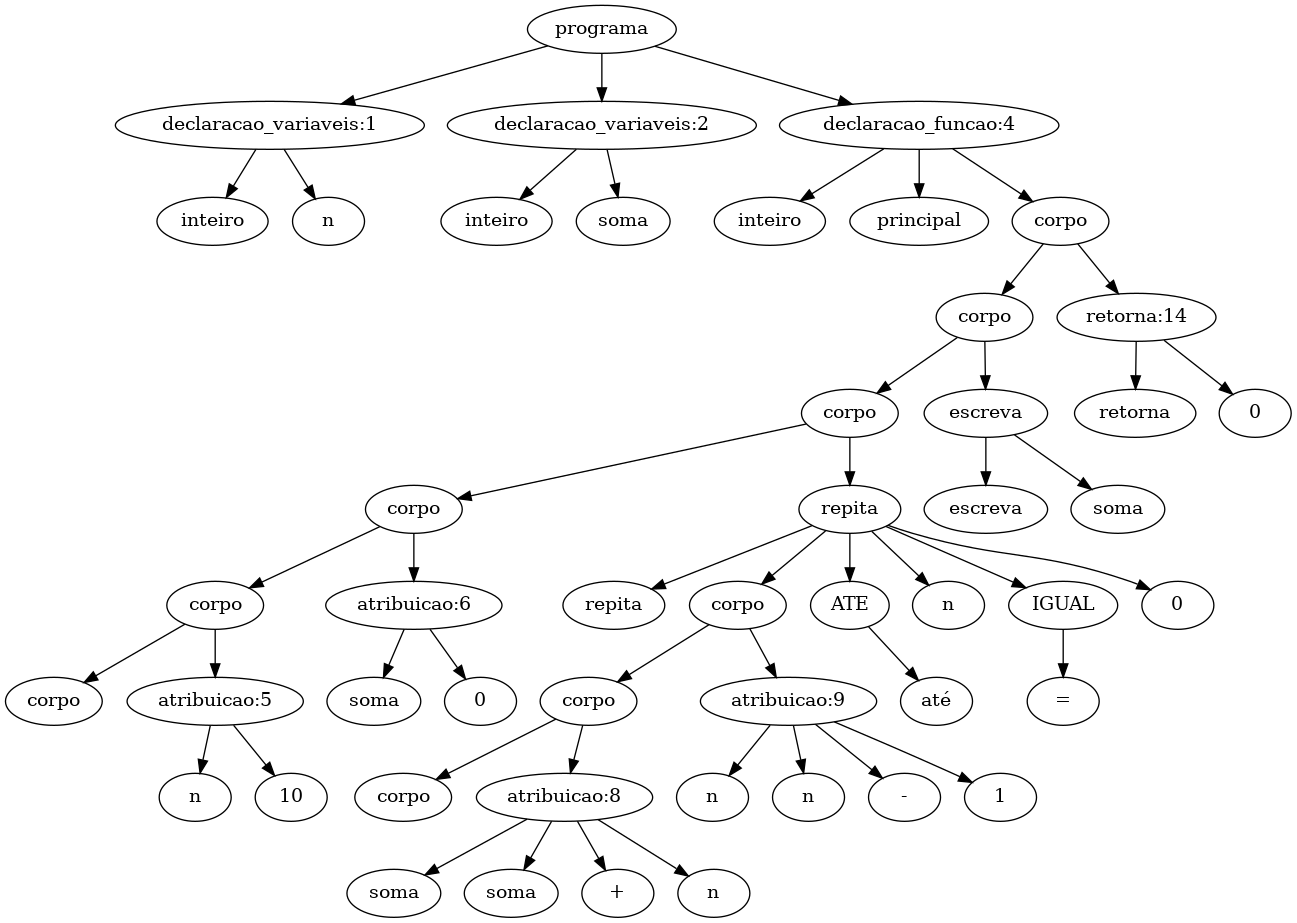
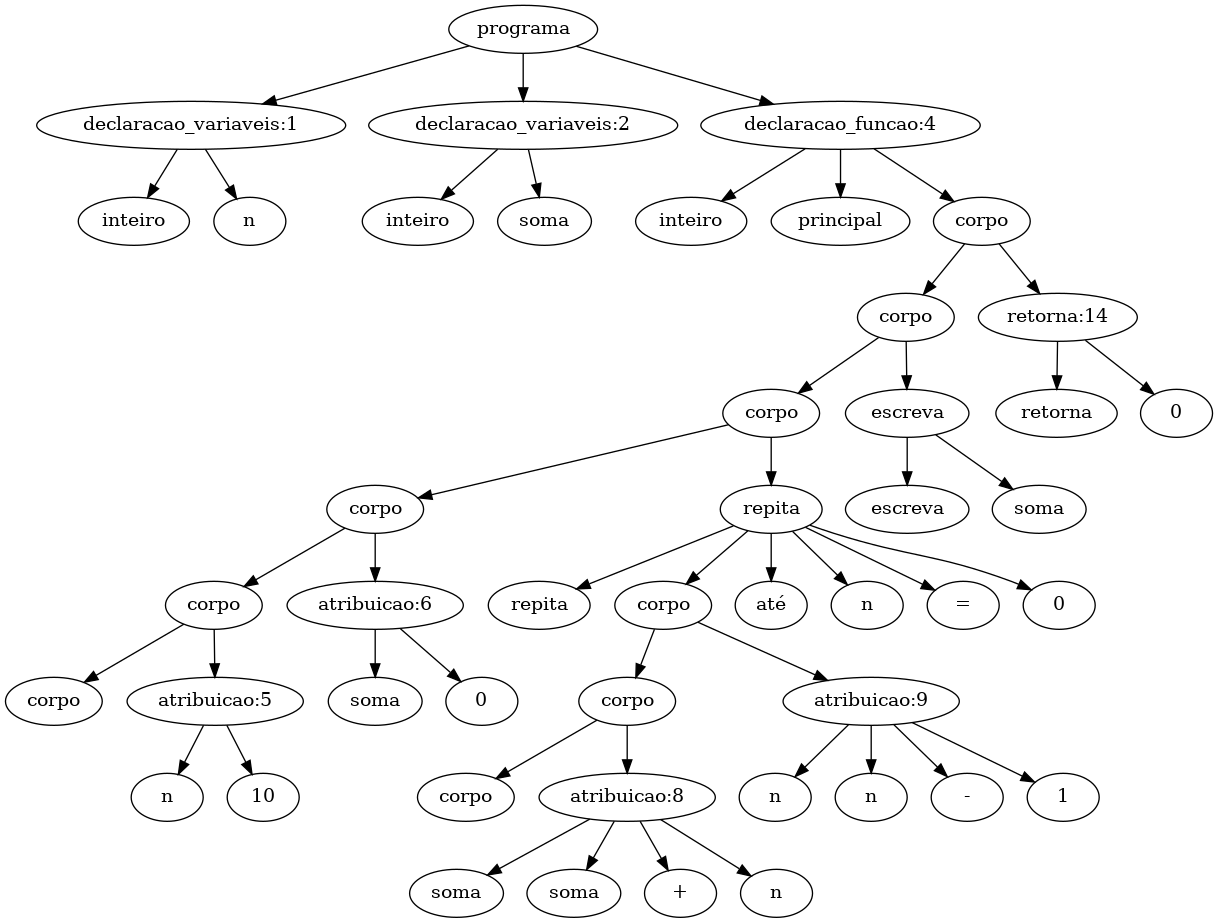
operação

diff --git a/Geração de Codigo/generatecode.py b/Geração de Codigo/generatecode.py
@@ -47,7 +47,6 @@ def geração_de_codigo(tree):
         main = ir.Function(Module, t_func_main, name=tree.children[1].label)
         # Declara os blocos de entrada e saída da função.
         entryBlock = main.append_basic_block('entry')
-        exitBasicBlock = main.append_basic_block('exit')
 
         # Adiciona o bloco de entrada.
         builder = ir.IRBuilder(entryBlock)
@@ -88,24 +87,50 @@ def geração_de_codigo(tree):
         val_ende.append(a)
 
     elif ("atribuicao" in tree.label):
-        # tipo numero x=1
-        if (tree.children[1].type == "VALOR"):
-            for i in range(len(val)):
-                if val[i]== tree.children[0].label:
-                    builder.store(ir.Constant(ir.IntType(32), int(tree.children[1].label) ), val_ende[i])
-        # tipo letra x=y
-        if (tree.children[1].type == "ID"):
-            for i in range(len(val)):
-                if val[i]== tree.children[0].label:
-                    temp_a = builder.load(val_ende[i])
-            builder.store(temp_a, val_ende[i])
-        if (tree.children[1].type == "MENOR"):
-            for i in range(len(val)):
-                if val[i]== tree.children[0].label:
-                    temp_a = builder.load(val_ende[i])
-            builder.store(temp_a, val_ende[i])
-        print("atribuicao")
+        if len(tree.children) == 2:
+            # tipo numero x=1
+            if (tree.children[1].type == "VALOR"):
+                for i in range(len(val)):
+                    if val[i]== tree.children[0].label:
+                        builder.store(ir.Constant(ir.IntType(32), int(tree.children[1].label) ), val_ende[i])
+            # tipo letra x=y
+            if (tree.children[1].type == "ID"):
+                for i in range(len(val)):
+                    if val[i]== tree.children[0].label:
+                        temp_a = builder.load(val_ende[i])
+                builder.store(temp_a, val_ende[i])
+        elif len(tree.children) == 4:
 
+            if (tree.children[1].type == "VALOR"):
+                for i in range(len(val)):
+                    if val[i]== tree.children[1].label:
+                        x_temp = ir.Constant(ir.IntType(32), int(tree.children[1].label))
+            # tipo letra x=y
+            if (tree.children[1].type == "ID"):
+                for i in range(len(val)):
+                    if val[i]== tree.children[1].label:
+                        x_temp = builder.load(val_ende[i])
+            if (tree.children[3].type == "VALOR"):
+                for i in range(len(val)):
+                    if val[i]== tree.children[3].label:
+                        y_temp = ir.Constant(ir.IntType(32), int(tree.children[3].label))
+            # tipo letra x=y
+            if (tree.children[3].type == "ID"):
+                for i in range(len(val)):
+                    if val[i]== tree.children[3].label:
+                        y_temp = builder.load(val_ende[i])
+            if tree.children[2].label == '+':
+                builder.add(x_temp, y_temp)
+            elif tree.children[2].label == '-':
+                builder.sub(x_temp, y_temp)
+            elif tree.children[2].label == '*':
+                builder.mul(x_temp, y_temp)
+            elif tree.children[2].label == '/':      
+                builder.sdiv(x_temp, y_temp)
+            elif tree.children[2].label == '%':
+                builder.srem(x_temp, y_temp)
+        print("atribuicao")
+        
     elif ("cabecalho" in tree.label):
         print("cabecalho")
 
@@ -163,8 +188,11 @@ def geração_de_codigo(tree):
         # Posiciona no inicio do bloco do loop
         builder.position_at_end(loop)
 
-        for filho in tree.children:
-            geração_de_codigo(filho)
+        for filho in range(len(tree.children)):
+            if filho == 0:
+                filho = 0
+            else:
+                geração_de_codigo(tree.children[filho])
 
         # Pula para o laço de validação
         builder.branch(loop_val)
@@ -179,25 +207,36 @@ def geração_de_codigo(tree):
                 temp_a = val_ende[i]
                 a_cmp = builder.load(temp_a, 'a_cmp', align=4)
         # Gera a expressão de comparação
-        sumExpression = builder.icmp_signed(tree.children[4].label, iVarLoad, comperValue, name='expressao_soma')
+
+        # transformação para que alinguagem possa compreender o operador de comparação
+        if tree.children[4].label == "=":
+            operator = "=="
+        sumExpression = builder.icmp_signed(operator, a_cmp, comperValue)
 
         # Compara se a expressão é verdadeira ou não, caso for pula para o bloco do loop end, caso contrário pula para o bloco do loop
         builder.cbranch(sumExpression, loop_end, loop)
 
         # Posiciona no inicio do bloco do fim do loop (saída do laço) e define o que o será executado após o fim (o resto do programa)  
         builder.position_at_end(loop_end)
-
+    elif ("escreva" in tree.label):
+        print("escreva")
     elif ("retorna" in tree.label):
         # Cria um salto para o bloco de saída
+
+        exitBasicBlock = main.append_basic_block('exit')
         builder.branch(exitBasicBlock)
 
         # Adiciona o bloco de saida
         builder.position_at_end(exitBasicBlock)
         
         # variavel de retorno para letra
+        flag = 0
         for i in range(len(val)):
-            if val[i]== tree.children[1].label:
+            if val[i] == tree.children[1].label:
                 builder.ret(builder.load(val_ende[i]))
+                flag = 1
+        if flag == 0:
+            builder.ret(ir.Constant(ir.IntType(32), int(tree.children[1].label)))
         print("retorna")
 
     else:

diff --git a/Geração de Codigo/tppsemantic2.py b/Geração de Codigo/tppsemantic2.py
@@ -360,11 +360,8 @@ def main():
     print(Table)
     # verifica_regras_semanticas()
 
-    # Nós que serao mantidos
-    verificar_nos = ['retorna', 'atribuicao','senão','chamada_funcao', 'declaracao_variaveis', 'tipo', 'leia', 'escreva','se', 'repita', 'até']
-
     # Nós que serão removidos na poda
-    remover_nos = ['ID', 'var', 'dois_pontos','tipo', 'cabecalho','MENOR','IGUAL',
+    remover_nos = ['ID', 'var', 'dois_pontos','tipo', 'cabecalho','MENOR','IGUAL','ATE',
                     'INTEIRO',  'NUM_INTEIRO', 'declaracao', 'indice', 'lista_declaracoes',
                     'numero','abre_colchete', 'fecha_colchete', 'menos', 'menor_igual',
                     'maior_igual','expressao', 'expressao_logica',  'ABRE_PARENTESE', 'FECHA_PARENTESE', 
